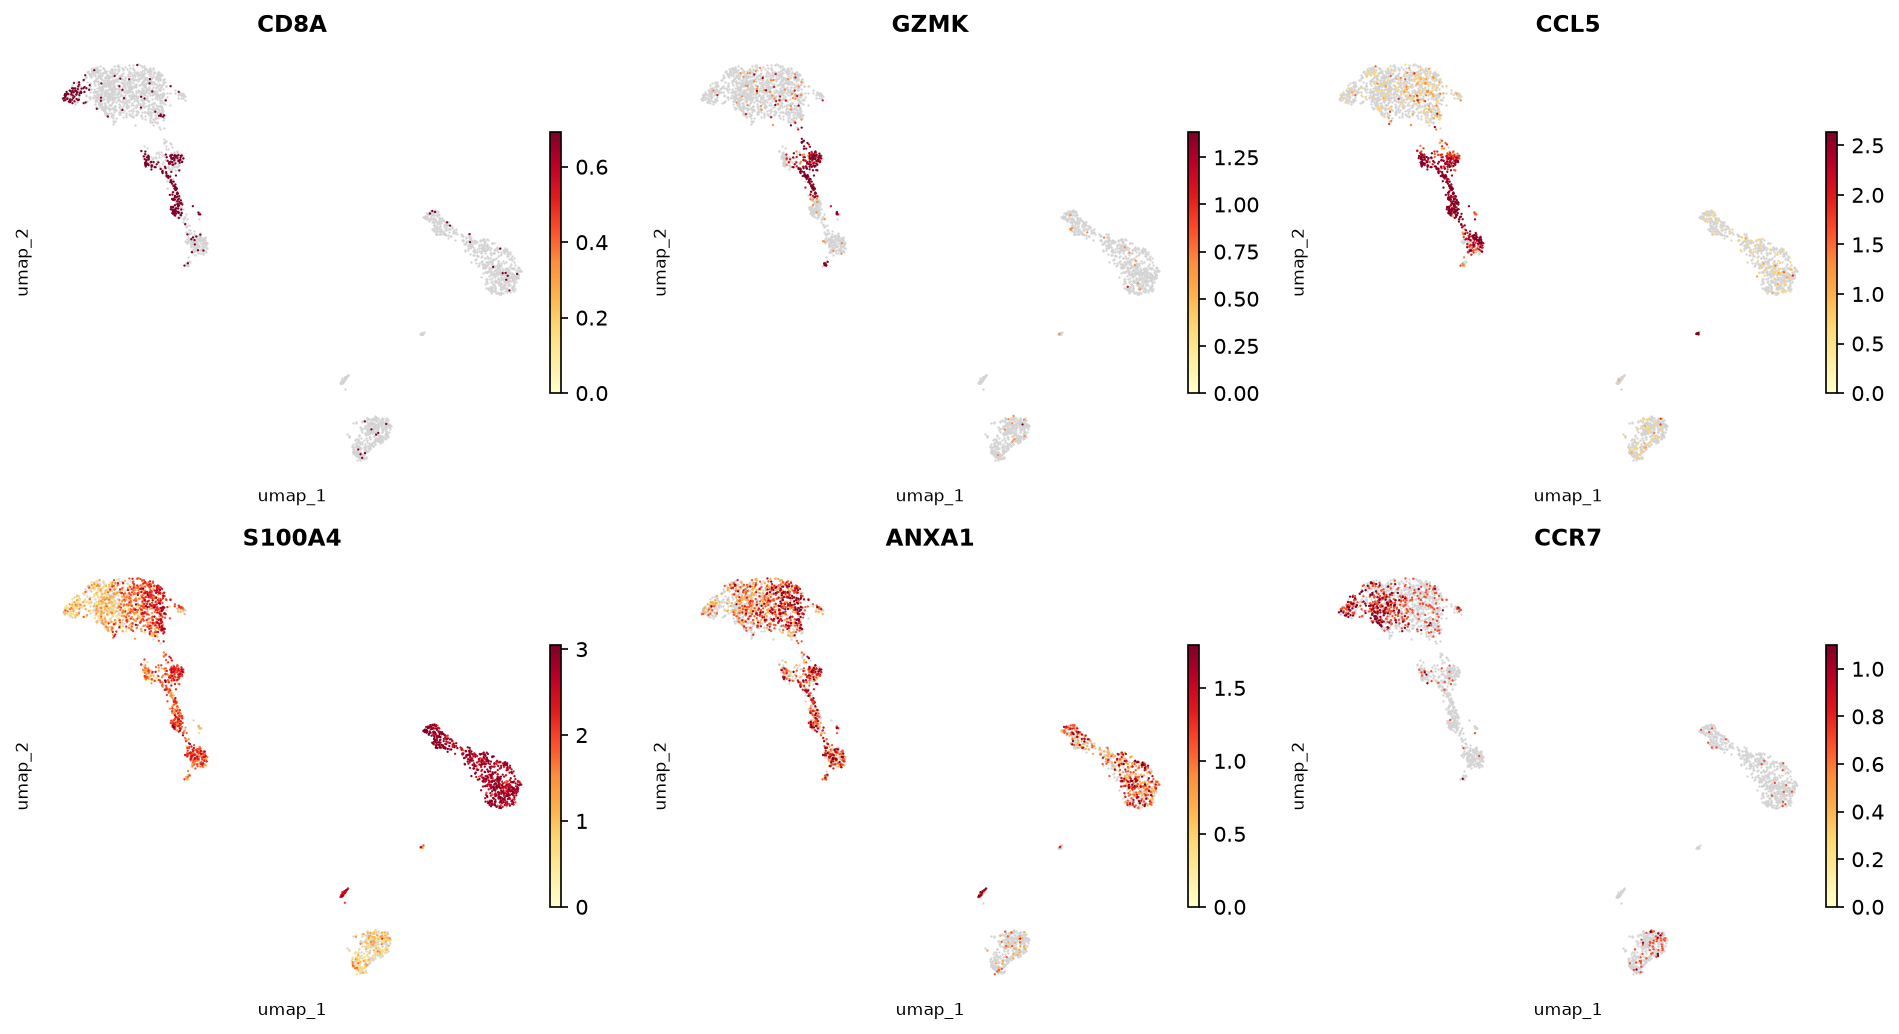
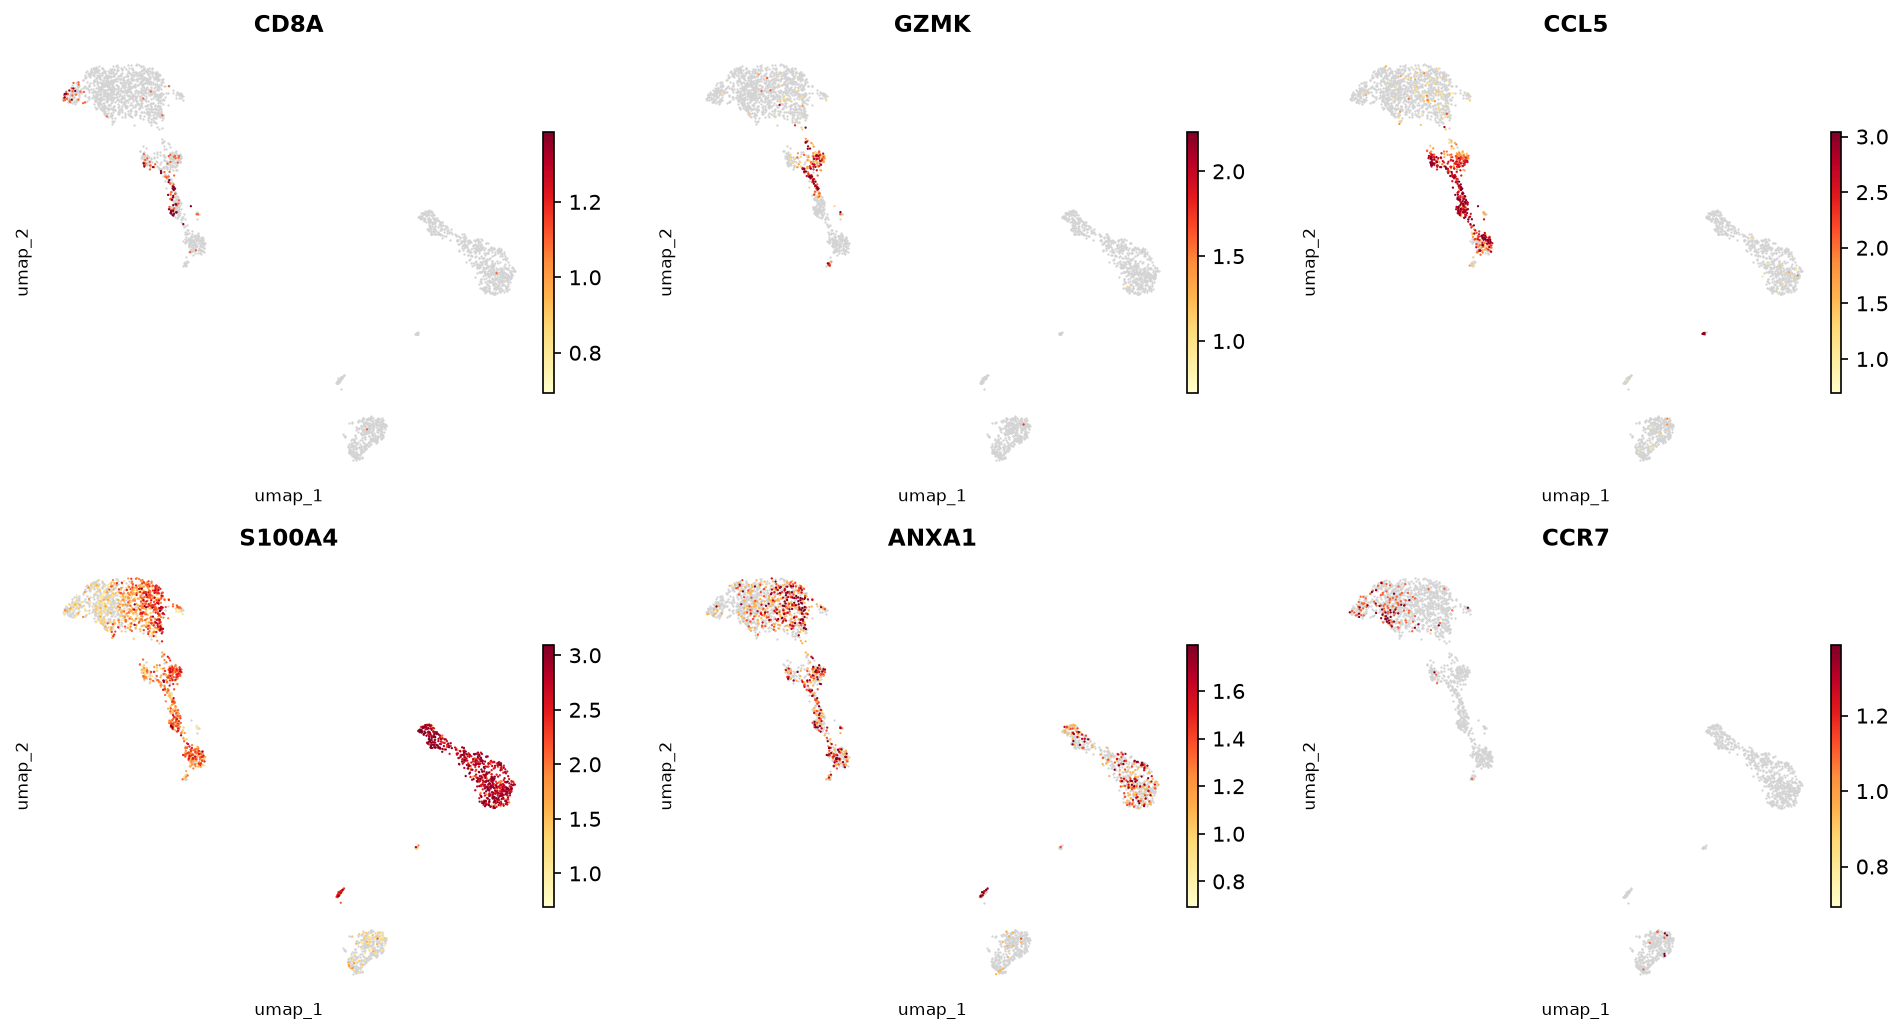
Take feature_plot's quantile cutoffs as Seurat's SetQuantile does (#145)
min_cutoff="q05", max_cutoff="q95", the call the skills recommend for a washed-out
colour scale, collapsed the colour bar of a gene detected in under 5% of cells to
(0, 1e-9): every expressing cell the same colour and no sign anything was wrong.
The committed SCTransform tutorial figure showed it, on XCL1.

The issue read this as a documentation gap. Seurat:::SetQuantile on 5.5.1 shows it
is a divergence: Seurat takes the percentile over the cells that express the feature
(data[data > 0]), where feature_plot took it over every cell, so a sparse gene's 5th
and 95th percentiles were both 0 and the same call works in R. The values are pinned
to SetQuantile's own output, including negatives and an all-zero feature, which R
returns NA for and this maps to 0.

Only the strings "q05" and "q95" were recognised, and "q99" raised a TypeError from
comparing a string with a float. Any q and one or two digits is accepted now, as in
Seurat, and anything else is a ValueError. Cutoffs that still leave the scale no
range (equal, inverted, or every expresser the same value) warn and draw the feature
over its own range, as the issue asked.

03_sct_featureplots_1.png and 04_sct_featureplots_2.png are redrawn; the other four
figures the script writes are identical to the pixel. The CITE-seq ADT panel does not
change, since every cell has a positive CLR value there. Seven mutants each fail
their own tests.

diff --git a/tests/test_feature_plot_cutoffs.py b/tests/test_feature_plot_cutoffs.py
@@ -1,0 +1,151 @@
+"""``feature_plot`` cutoffs: Seurat's ``SetQuantile``, and a scale that cannot collapse silently.
+
+The skills recommend ``min_cutoff="q05", max_cutoff="q95"`` as the fix for a washed-out
+colour scale. ``feature_plot`` took those percentiles over every cell, so for a gene
+detected in under 5% of cells both were 0 and the colour bar spanned (0, 1e-9): every
+expressing cell the same colour. Seurat's ``SetQuantile`` takes the percentile over the
+cells that express the feature, so the same call works there, and it accepts any
+``q`` and one or two digits where ``feature_plot`` recognised only the strings
+``"q05"`` and ``"q95"``, and failed on the rest.
+
+The reference values below are from ``Seurat:::SetQuantile`` on Seurat 5.5.1.
+"""
+import warnings
+
+import numpy as np
+import pytest
+import scipy.sparse as sp
+
+import truecell as tc
+from truecell.plotting import _set_quantile
+
+# x = c(0, 0, 0, 0, 0.5, 1, 2, 3, 10, 20), run through Seurat:::SetQuantile
+X = np.array([0, 0, 0, 0, 0.5, 1, 2, 3, 10, 20], dtype=float)
+R_QUANTILES = {"q05": 0.625, "q5": 0.625, "q10": 0.75, "q50": 2.5, "q95": 17.5, "q99": 19.5, "q00": 0.5}
+
+
+@pytest.mark.parametrize("cutoff,expected", sorted(R_QUANTILES.items()))
+def test_a_quantile_is_seurats_over_the_expressing_cells(cutoff, expected):
+    assert _set_quantile(cutoff, X) == pytest.approx(expected, rel=1e-12)
+
+
+def test_the_zeros_do_not_count_toward_a_quantile():
+    # Over every cell the 5th percentile of X is 0; over the expressing cells it is 0.625.
+    assert np.percentile(X, 5) == 0.0
+    assert _set_quantile("q05", X) == pytest.approx(0.625)
+    # R's sparse example: 97 zeros and three expressers
+    sparse = np.r_[np.zeros(97), [0.5, 1.5, 3.0]]
+    assert _set_quantile("q05", sparse) == pytest.approx(0.6)
+    assert _set_quantile("q95", sparse) == pytest.approx(2.85)
+
+
+def test_negatives_are_not_expression_either():
+    """`data[data > 0]`, so a scaled value below zero is left out, as in R (0.575)."""
+    assert _set_quantile("q05", np.array([-2, -1, 0, 0.5, 1, 2, 3.0])) == pytest.approx(0.575)
+
+
+def test_a_number_is_itself_and_a_feature_nothing_expresses_is_zero():
+    assert _set_quantile(2.5, X) == 2.5 and _set_quantile(0, X) == 0.0
+    assert _set_quantile("q05", np.zeros(5)) == 0.0                 # R gives NA; a scale needs a number
+
+
+@pytest.mark.parametrize("bad", ["q100", "q", "q1.5", "95", "Q05", "q05 ", "", "median", "q-5"])
+def test_anything_else_is_an_error_that_says_what_is_allowed(bad):
+    with pytest.raises(ValueError, match="a number or a quantile such as 'q05'"):
+        _set_quantile(bad, X)
+
+
+@pytest.fixture(scope="module")
+def obj():
+    pytest.importorskip("matplotlib")
+    rng = np.random.default_rng(0)
+    o = tc.create_truecell_object(
+        counts=sp.csc_matrix(rng.poisson(2.0, size=(30, 400)).astype(float)),
+        feature_names=[f"G{i}" for i in range(30)], cell_names=[f"c{i}" for i in range(400)])
+    tc.normalize_data(o)
+    tc.find_variable_features(o, nfeatures=20)
+    tc.scale_data(o)
+    tc.run_pca(o, n_pcs=4)
+    # exact expression vectors, as metadata columns
+    sparse = np.zeros(400)
+    sparse[:12] = np.linspace(0.5, 3.0, 12)                          # 3% of cells express it
+    o.meta_data["sparse"] = sparse
+    o.meta_data["dense"] = np.linspace(0.0, 10.0, 400)
+    o.meta_data["flat"] = np.r_[np.zeros(380), np.ones(20)]          # every expresser is 1
+    o.meta_data["silent"] = np.zeros(400)
+    return o
+
+
+def _clim(fig):
+    """The colour scale of the first panel's expressing cells."""
+    return tuple(round(float(v), 9) for v in fig.axes[0].collections[1].get_clim())
+
+
+def _draw(obj, feature, **kwargs):
+    plt = pytest.importorskip("matplotlib.pyplot")
+    with warnings.catch_warnings(record=True) as seen:
+        warnings.simplefilter("always")
+        fig = tc.feature_plot(obj, feature, reduction="pca", **kwargs)
+    clim = _clim(fig)
+    plt.close(fig)
+    return clim, [str(w.message) for w in seen if "colour scale no range" in str(w.message)]
+
+
+def test_the_documented_quantiles_work_for_a_gene_few_cells_express(obj):
+    """The report: the colour bar was (0, 1e-9) and the expression gradient was gone."""
+    expressed = obj.meta_data["sparse"].to_numpy()
+    expressed = expressed[expressed > 0]
+    clim, warned = _draw(obj, "sparse", min_cutoff="q05", max_cutoff="q95")
+    assert clim == (round(np.percentile(expressed, 5), 9), round(np.percentile(expressed, 95), 9))
+    assert clim[1] - clim[0] > 1.0                                    # a range, not 1e-9
+    assert not warned
+
+
+def test_every_quantile_is_accepted_not_only_q05_and_q95(obj):
+    expressed = obj.meta_data["dense"].to_numpy()
+    expressed = expressed[expressed > 0]
+    clim, _ = _draw(obj, "dense", min_cutoff="q10", max_cutoff="q99")
+    assert clim == (round(np.percentile(expressed, 10), 9), round(np.percentile(expressed, 99), 9))
+
+
+def test_numbers_and_the_defaults_are_as_they_were(obj):
+    assert _draw(obj, "dense", min_cutoff=2.0, max_cutoff=7.0)[0] == (2.0, 7.0)
+    assert _draw(obj, "dense")[0] == (0.0, 10.0)
+    assert _draw(obj, "dense", min_cutoff="q05")[0][1] == 10.0       # the max default is the feature's max
+
+
+@pytest.mark.parametrize("kwargs", [
+    {"min_cutoff": 5.0, "max_cutoff": 5.0},                          # equal
+    {"min_cutoff": 7.0, "max_cutoff": 2.0},                          # inverted
+    {"max_cutoff": 0.0},                                             # a maximum of zero
+])
+def test_cutoffs_that_leave_no_range_warn_and_fall_back_to_the_features_range(obj, kwargs):
+    clim, warned = _draw(obj, "dense", **kwargs)
+    assert clim == (0.0, 10.0)
+    assert len(warned) == 1 and "'dense'" in warned[0] and "0 to 10" in warned[0]
+
+
+def test_quantiles_that_collapse_warn_too(obj):
+    """Every expresser is 1, so q05 and q95 are both 1: one colour for every expresser."""
+    clim, warned = _draw(obj, "flat", min_cutoff="q05", max_cutoff="q95")
+    assert clim == (0.0, 1.0) and len(warned) == 1
+
+
+def test_a_feature_nothing_expresses_is_not_a_cutoff_problem(obj):
+    clim, warned = _draw(obj, "silent", min_cutoff="q05", max_cutoff="q95")
+    assert clim == (0.0, 1e-9) and not warned
+
+
+def test_split_by_still_shares_one_scale_computed_over_every_cell(obj):
+    plt = pytest.importorskip("matplotlib.pyplot")
+    obj.meta_data["half"] = ["a"] * 200 + ["b"] * 200
+    fig = tc.feature_plot(obj, "dense", reduction="pca", min_cutoff="q05", max_cutoff="q95",
+                          split_by="half")
+    try:
+        clims = {tuple(round(float(v), 9) for v in ax.collections[1].get_clim())
+                 for ax in fig.axes if len(ax.collections) > 1}
+    finally:
+        plt.close(fig)
+    expressed = obj.meta_data["dense"].to_numpy()
+    expressed = expressed[expressed > 0]
+    assert clims == {(round(np.percentile(expressed, 5), 9), round(np.percentile(expressed, 95), 9))}

diff --git a/truecell/plotting.py b/truecell/plotting.py
@@ -766,6 +766,29 @@ def vln_plot(
 # 2. feature_plot — FeaturePlot
 # ---------------------------------------------------------------------------
 
+def _set_quantile(cutoff, values: np.ndarray) -> float:
+    """Seurat's ``SetQuantile``: a number is itself, ``"q05"`` is a percentile.
+
+    Any ``q`` and one or two digits is a percentile, and it is taken over the cells
+    that express the feature, the values above zero, not over every cell. Over every
+    cell, a gene detected in under 5% of them has a 5th and a 95th percentile of 0,
+    which leaves the colour scale no range.
+
+    A feature nothing expresses has no percentile; R returns ``NA`` there, and 0 is
+    what a colour scale can use.
+    """
+    if isinstance(cutoff, str):
+        if not re.fullmatch(r"q[0-9]{1,2}", cutoff):
+            raise ValueError(
+                f"A cutoff is a number or a quantile such as 'q05' or 'q95', got {cutoff!r}."
+            )
+        expressed = values[values > 0]
+        if expressed.size == 0:
+            return 0.0
+        return float(np.percentile(expressed, int(cutoff[1:])))
+    return float(cutoff)
+
+
 def feature_plot(
     obj,
     features: Union[str, list[str]],
@@ -774,8 +797,8 @@ def feature_plot(
     layer: Optional[str] = None,
     ncol: Optional[int] = None,
     order: bool = True,
-    min_cutoff: Optional[float] = None,
-    max_cutoff: Optional[float] = None,
+    min_cutoff: float | str | None = None,
+    max_cutoff: float | str | None = None,
     colormap: str = "YlOrRd",
     pt_size: float = 3.0,
     figsize: Optional[tuple] = None,
@@ -791,8 +814,15 @@ def feature_plot(
     features    : gene name(s) or metadata column(s) to plot
     reduction   : which reduction to use ("umap", "pca", …)
     order       : plot cells with highest expression on top
-    min_cutoff  : clip expression below this percentile (e.g. "q05")
-    max_cutoff  : clip expression above this percentile
+    min_cutoff  : expression at or below this is drawn as not expressed (grey). A
+                  number, or a quantile such as ``"q05"``; default 0.
+    max_cutoff  : expression above this takes the top of the colour scale. A number,
+                  or a quantile such as ``"q95"``; default the feature's maximum.
+                  As in Seurat, a quantile is taken over the cells that express the
+                  feature (values above zero), so ``"q05"``/``"q95"`` suit a gene
+                  detected in a few percent of cells. If the two cutoffs leave the
+                  scale no range, a warning says so and the feature is drawn over
+                  its own range instead.
     colormap    : matplotlib colormap name for expression
     pt_size     : scatter point size
     raster      : draw the cells as a raster layer instead of vector paths.
@@ -836,8 +866,19 @@ def feature_plot(
 
         # Cutoffs from every cell, not the panel's subset — that is what makes
         # the row comparable.
-        vmin = np.percentile(expr, 5) if min_cutoff == "q05" else (min_cutoff or 0)
-        vmax = np.percentile(expr, 95) if max_cutoff == "q95" else (max_cutoff or expr.max())
+        vmin = 0.0 if min_cutoff is None else _set_quantile(min_cutoff, expr)
+        vmax = float(expr.max()) if max_cutoff is None else _set_quantile(max_cutoff, expr)
+        if not vmax > vmin and expr.max() > 0:
+            # The feature varies, so it is the cutoffs that left the scale no range:
+            # one colour for every cell, and nothing to tell the plot is wrong.
+            warnings.warn(
+                f"feature_plot: for {feat!r}, min_cutoff={min_cutoff!r} and "
+                f"max_cutoff={max_cutoff!r} give {vmin:.3g} and {vmax:.3g}, which leaves "
+                f"the colour scale no range. Drawing it over the feature's own range, "
+                f"0 to {expr.max():.3g}, instead.",
+                stacklevel=2,
+            )
+            vmin, vmax = 0.0, float(expr.max())
         vmax = max(vmax, vmin + 1e-9)
 
         for ci, (level, in_panel) in enumerate(cells):

diff --git a/CHANGELOG.md b/CHANGELOG.md
@@ -83,6 +83,29 @@ and this project adheres to [Semantic Versioning](https://semver.org/spec/v2.0.0
     `tests/test_layer_feature_alignment.py` uses the standard workflow and checks
     that its own fixture can tell the two lookups apart.
 
+- **`feature_plot`'s quantile cutoffs are Seurat's, so `min_cutoff="q05", max_cutoff="q95"`
+  works for a sparse gene (#145).** That call, the one the skills recommend for a
+  washed-out scale, collapsed the colour bar of a gene detected in under 5% of cells to
+  (0, 1e-9): every expressing cell the same colour, and no sign anything was wrong. The
+  committed SCTransform tutorial figure showed it, on `XCL1`.
+  - Seurat's `SetQuantile` takes the percentile over the cells that express the feature,
+    the values above zero. `feature_plot` took it over every cell, so a sparse gene's 5th
+    and 95th percentiles were both 0. The values are pinned to `Seurat:::SetQuantile` on
+    Seurat 5.5.1 in `tests/test_feature_plot_cutoffs.py`, negatives and all-zero
+    features included.
+  - Only the strings `"q05"` and `"q95"` were recognised, and `"q99"` raised a
+    `TypeError` from comparing a string with a float. Any `q` and one or two digits
+    works now, as in Seurat, and anything else is a `ValueError` that says what is
+    allowed.
+  - Cutoffs that still leave the scale no range, whether equal, inverted, or because
+    every expresser has the same value, now warn and draw the feature over its own
+    range, instead of one colour.
+  - `tutorials/figures_sctransform/03_sct_featureplots_1.png` and
+    `04_sct_featureplots_2.png` are redrawn. The other four figures from the same
+    script are identical to the pixel. The CITE-seq ADT panel does not change: every
+    cell has a positive CLR value there, so the cells that express a protein are all
+    of them, and R's panel already used these quantiles.
+
 - **The generics the docs list now work (#142).** `truecell.generics` declared 72
   functions and 39 had only the fallback, so they raised `NotImplementedError` for every
   object. `skills/truecell/reference/api-map.md` listed many as the way to do things,

diff --git a/skills/truecell-plotting/SKILL.md b/skills/truecell-plotting/SKILL.md
@@ -91,8 +91,12 @@ fig = truecell.do_heatmap(obj, list(top["gene"]), layer="scale.data")
 ```
 
 `min_cutoff` / `max_cutoff` on `feature_plot` accept a number **or** a quantile
-string (`"q05"`, `"q95"`) — the usual fix when one outlier cell flattens the
-whole colour scale.
+string, `"q"` and one or two digits (`"q05"`, `"q95"`, `"q99"`) — the usual fix when one
+outlier cell flattens the whole colour scale. As in Seurat, a quantile is taken over
+the cells that express the feature, the values above zero, so it suits a gene detected
+in a few percent of cells too. If two cutoffs leave no range, for instance when every
+expressing cell has the same value, `feature_plot` warns and draws the feature over
+its own range.
 
 `do_heatmap` reads `scale.data` by default, so the genes you pass must have been
 scaled. If your heatmap is empty, that is usually why: `scale_data` defaults to
@@ -169,7 +173,7 @@ for gene in genes:
 | `ModuleNotFoundError: matplotlib` | Install `truecell[analysis]`. |
 | Hangs or errors in CI / headless | Set `matplotlib.use("Agg")` before importing pyplot. |
 | `do_heatmap` blank | Genes not in `scale.data` — see above. |
-| Colour scale washed out | One outlier cell; use `min_cutoff="q05"`, `max_cutoff="q95"`. |
+| Colour scale washed out | One outlier cell; use `min_cutoff="q05"`, `max_cutoff="q95"`. They are taken over the cells expressing the gene, as in Seurat, so a sparse gene is fine. |
 | Plotting protein shows RNA | Pass `assay="ADT"`; there is no default-assay switch. |
 | Spatial plot mirrored | Toggle `flip_y`. |
 | Memory grows across a loop | Figures never closed. |
